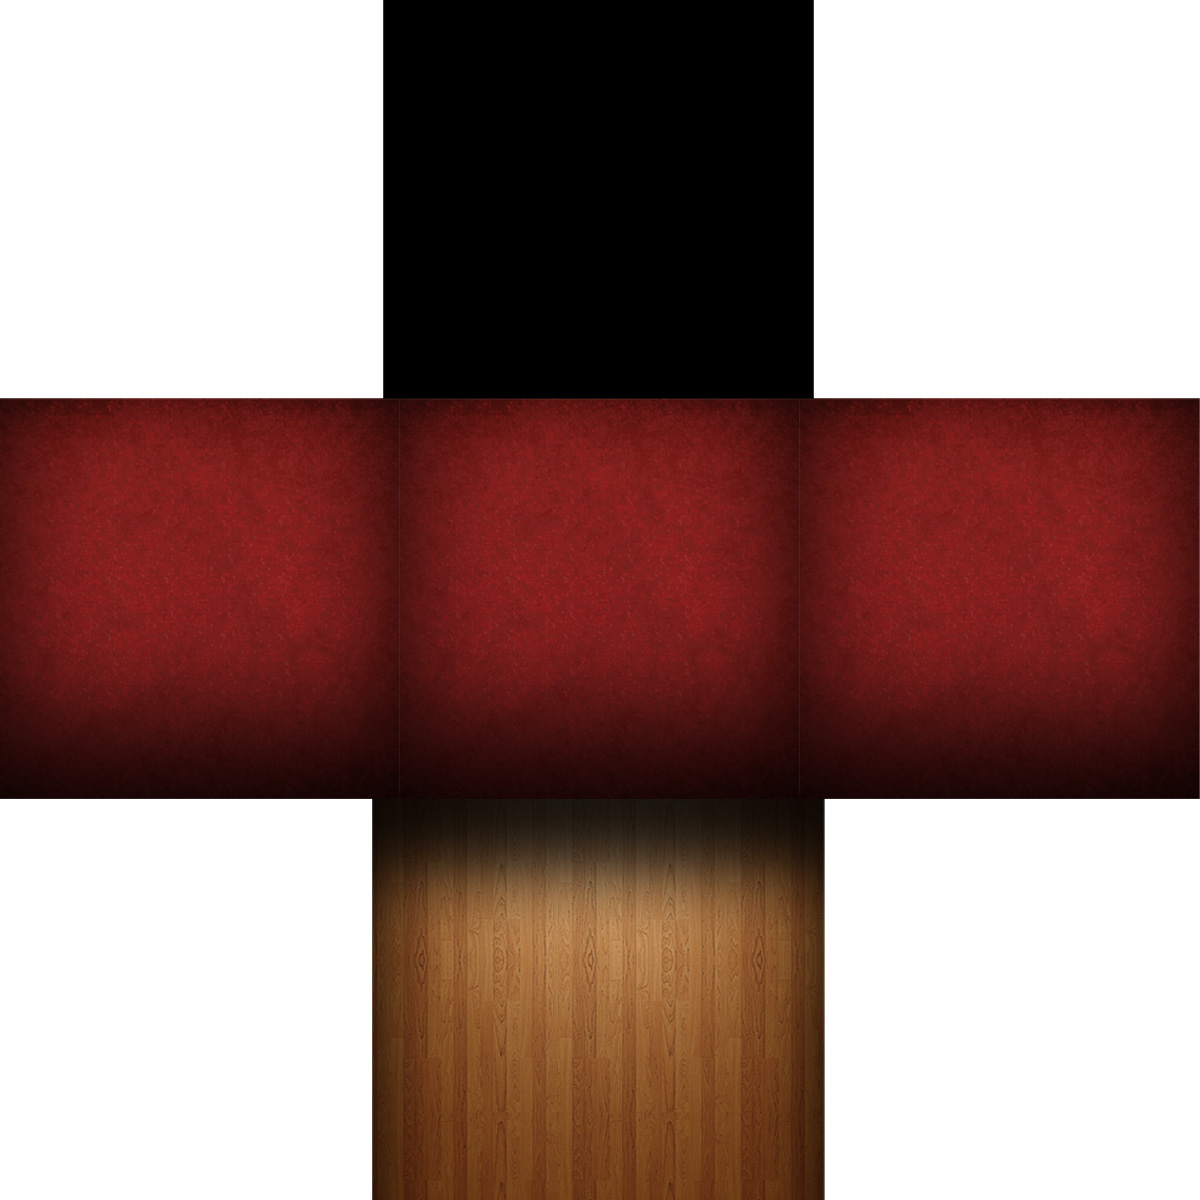
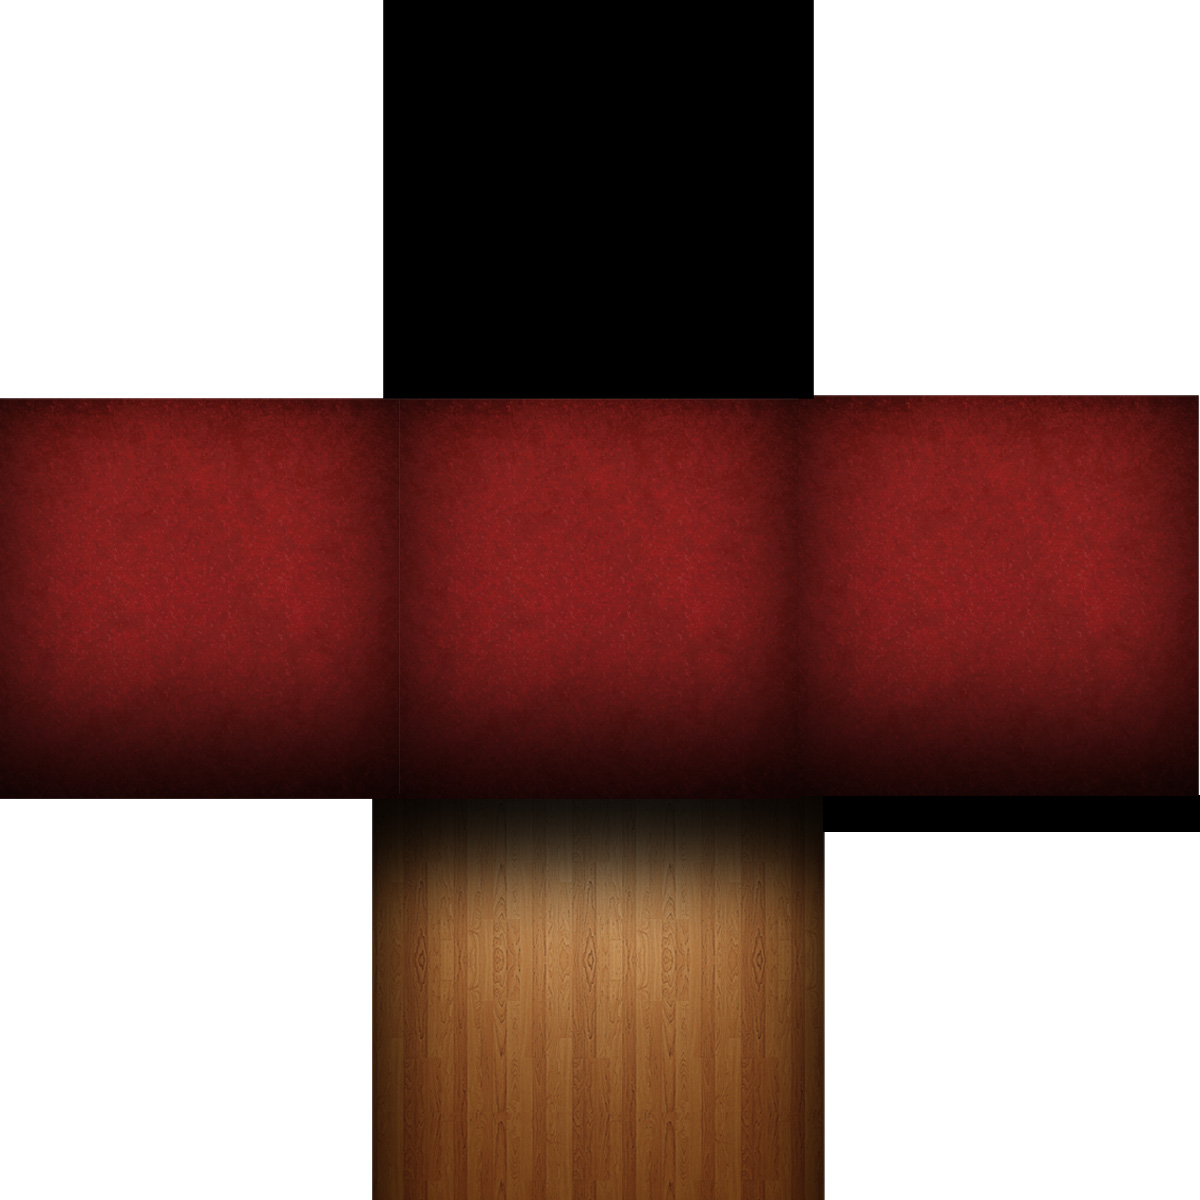
fix holes in the wall, add lightbulb and classes for the walls and roof

Changed region(s): [[0.6783, 0.3083, 1.0, 0.7092]]

diff --git a/public/index.html b/public/index.html
@@ -17,22 +17,24 @@
 
   		<div class="shape cube">
   		  
+  		  <div class="lightBulb"></div>
+  		  
 	        <div class="face one" style="display:none;">
             <div class="content">One - Front wall</div>
 	        </div>
-	        <div class="face two">
+	        <div class="face two wall">
             <div class="content">Two - Right</div>
 	        </div>
-	        <div class="face three">
+	        <div class="face three wall">
             <div class="content">Three - Back</div>
 	        </div>
-	        <div class="face four">
+	        <div class="face four roof">
             <div class="content">Four - Top</div>
 	        </div>
-	        <div class="face five">
+	        <div class="face five wall">
             <div class="content">Five <a href="http://www.google.com">5555555555555555555</a></div>
 	        </div>
-	        <div class="face six">
+	        <div class="face six floor">
             <div class="content">Six - Floor</div>
 	        </div>
 	    </div>

diff --git a/public/stylesheets/style.css b/public/stylesheets/style.css
@@ -34,10 +34,15 @@
   color: #fff;
   border: 1px solid #555;
   -webkit-border-radius: 3px;
-  background: url(/images/wall.jpg) no-repeat;
 }
 
+
 /* Cube */
+.roof,
+.floor,
+.wall {
+  background: url(/images/wall.jpg) no-repeat;
+}
 
 .cube .one  {
   -webkit-transform: translateZ(200px);
@@ -69,12 +74,13 @@
 }
 
 /* Only for the lightbulb, not necessary at this stage */
-/*#space { position: relative; }*/
+#space { position: relative; }
 
 .lightBulb { 
   background: url(/images/light.png) no-repeat;
   width: 150px;
   position: absolute;
   height: 190px;
-  right: 30px;
+  right: 10px;
+  top: 0;
 }
